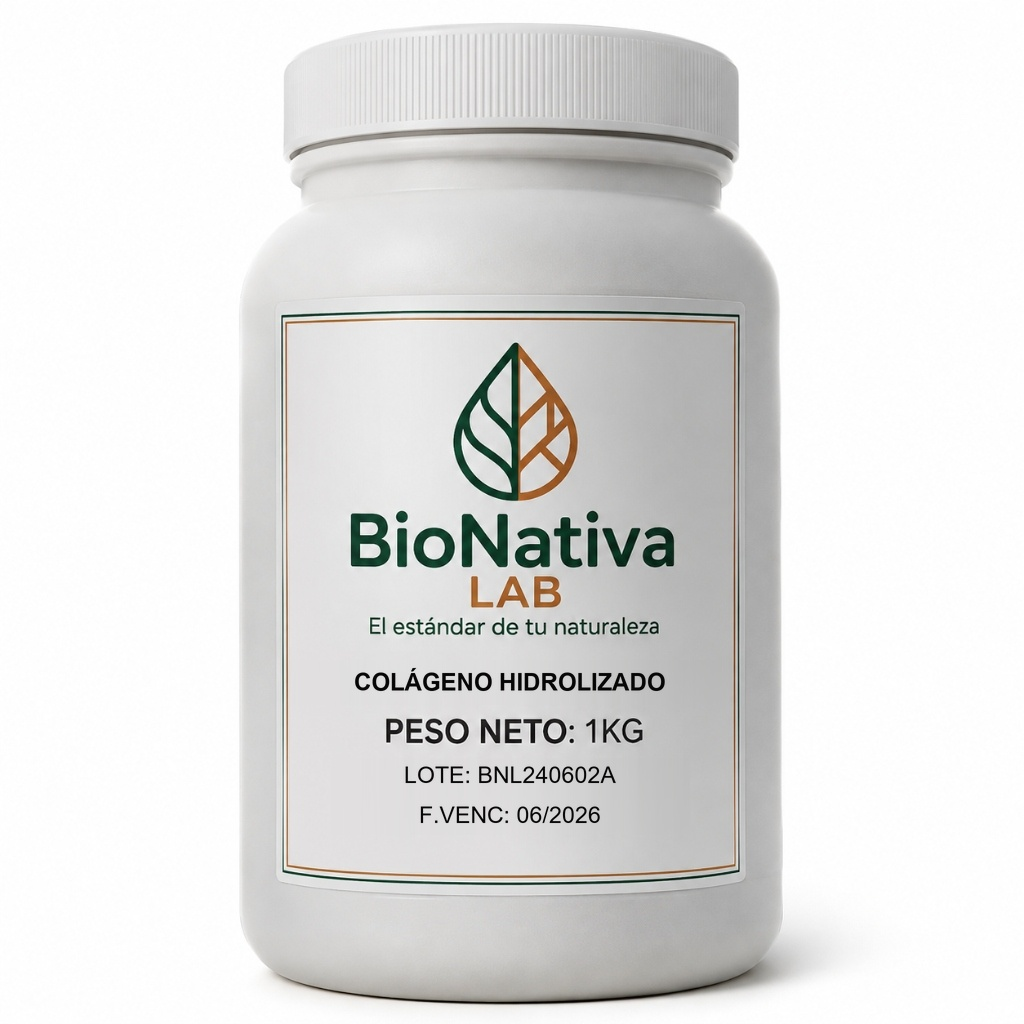
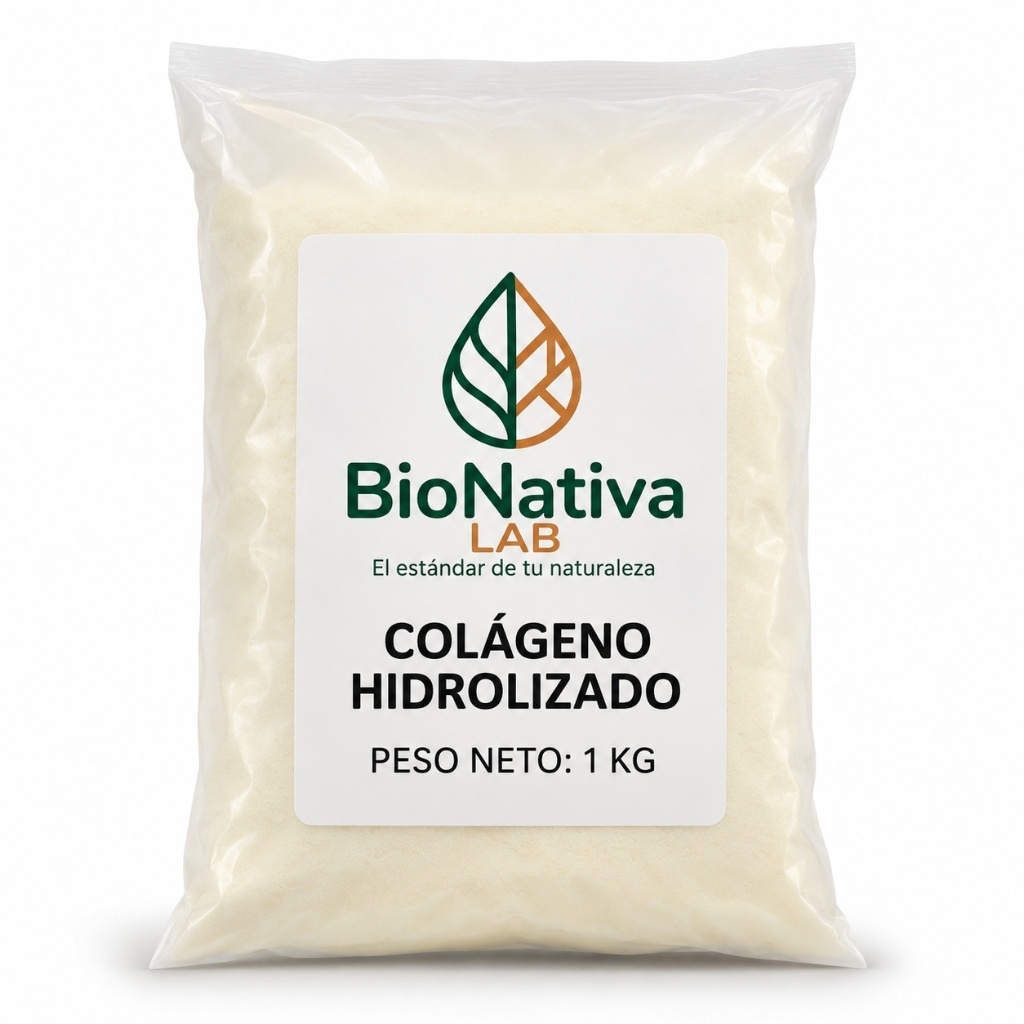
feat(catalog): actualizar presentacion de colageno a Peptidos Bioactivos con nuevas fotos de bolsa 1kg y saco 20kg

diff --git a/js/products-data.js b/js/products-data.js
@@ -337,14 +337,14 @@ const BIONATIVA_PRODUCTS = [
   },
   {
     "id": "colageno-hidrolizado",
-    "name": "Colágeno Hidrolizado Puro Bovino Grado I y III",
-    "shortName": "Colágeno Hidrolizado",
+    "name": "Péptidos Bioactivos de Colágeno Hidrolizado Puro (Tipo I & III)",
+    "shortName": "Péptidos Bioactivos de Colágeno",
     "category": "salud-articular",
     "categoryName": "Salud Articular, Belleza y Vitalidad",
     "badge": "Top Ventas Articular",
     "rating": 4.9,
     "reviewsCount": 165,
-    "image": "img/products/colageno-hidrolizado-pote-1kg.jpg",
+    "image": "img/products/colageno-hidrolizado-bolsa-1kg.jpg",
     "hasVariants": true,
     "price": 56,
     "unit": "1KG",
@@ -388,12 +388,12 @@ const BIONATIVA_PRODUCTS = [
         "image": "img/products/colageno-hidrolizado-pote-1kg.jpg"
       },
       {
-        "id": "caja-20kg",
-        "name": "Caja Industrial 20 kg (Mayorista / Granel)",
+        "id": "saco-20kg",
+        "name": "Saco Industrial 20 kg (Mayorista / Granel)",
         "price": 920,
         "weight": "20 kg",
-        "format": "Caja Corrugada Industrial con Doble Barrera Hermética",
-        "packagingType": "industrial-caja",
+        "format": "Saco Industrial Kraft Multicapa Hermético",
+        "packagingType": "industrial-saco",
         "sku": "BIO-COL-IND-20K",
         "image": "img/products/industrial/colageno-hidrolizado-20kg.jpg",
         "isBulk": true

diff --git a/generate_corrected_presentations.py b/generate_corrected_presentations.py
@@ -282,7 +282,7 @@ PRODUCTS_MAPPING = [
     {
         "id": "colageno-hidrolizado",
         "name_label": "COLÁGENO HIDROLIZADO",
-        "weight_ind": "20 KG – CAJA INDUSTRIAL",
+        "weight_ind": "20 KG – SACO INDUSTRIAL",
         "lote": "BNL240602A",
         "fvenc": "06/2026",
         "file_bolsa": "colageno-hidrolizado-bolsa-1kg.jpg",

diff --git a/Technical_Specification.md b/Technical_Specification.md
@@ -27,7 +27,7 @@ A continuación se detalla la concordancia entre los 11 folios del catálogo y l
 | 9 | **Sal de Epsom** (Pág. 6) | `sal-de-epsom` | Estrés y Descanso | Pote Plastificado / Bolsa Polietileno | **Saco Industrial 25 kg** | Solo unitario 1KG sin selector |
 | 10 | **Cloruro de Magnesio Hexahidratado** (Pág. 6) | `cloruro-de-magnesio` | Estrés y Descanso | Pote Plastificado / Bolsa Polietileno | **Saco Industrial 25 kg** | Solo unitario 1KG sin selector |
 | 11 | **Té Verde** (Pág. 6) | `te-verde-extracto` | Salud Articular | Pote Plastificado / Bolsa Polietileno | **Tambor Industrial 25 kg** | Solo unitario 1KG sin selector |
-| 12 | **Colágeno Hidrolizado** (Pág. 7) | `colageno-hidrolizado` | Salud Articular | Pote Plastificado / Bolsa Polietileno | **Saco Industrial 20 kg** | Imagen temporal incorrecta; sin selector |
+| 12 | **Péptidos Bioactivos de Colágeno Hidrolizado Puro (Tipo I & III)** (Pág. 7) | `colageno-hidrolizado` | Salud Articular | Pote Plastificado / Bolsa Polietileno | **Saco Industrial 20 kg** | Actualizado con imágenes reales (Bolsa 1kg y Saco 20kg) y selector completo |
 | 13 | **L - Arginina** (Pág. 7) | `arginina-pura` | Fuerza y Deporte | Pote Plastificado / Bolsa Polietileno | **Tambor Industrial 25 kg** | Solo unitario 1KG sin selector |
 | 14 | **L - Glutamina** (Pág. 7) | `glutamina-pura` | Fuerza y Deporte | Pote Plastificado / Bolsa Polietileno | **Tambor Industrial 25 kg** | Solo unitario 1KG sin selector |
 | 15 | **Ascorbato de Sodio** (Pág. 7) | `ascorbato-de-sodio` | Salud Articular | Pote Plastificado / Bolsa Polietileno | **Caja Industrial 25 kg** | Solo unitario 1KG sin selector |
